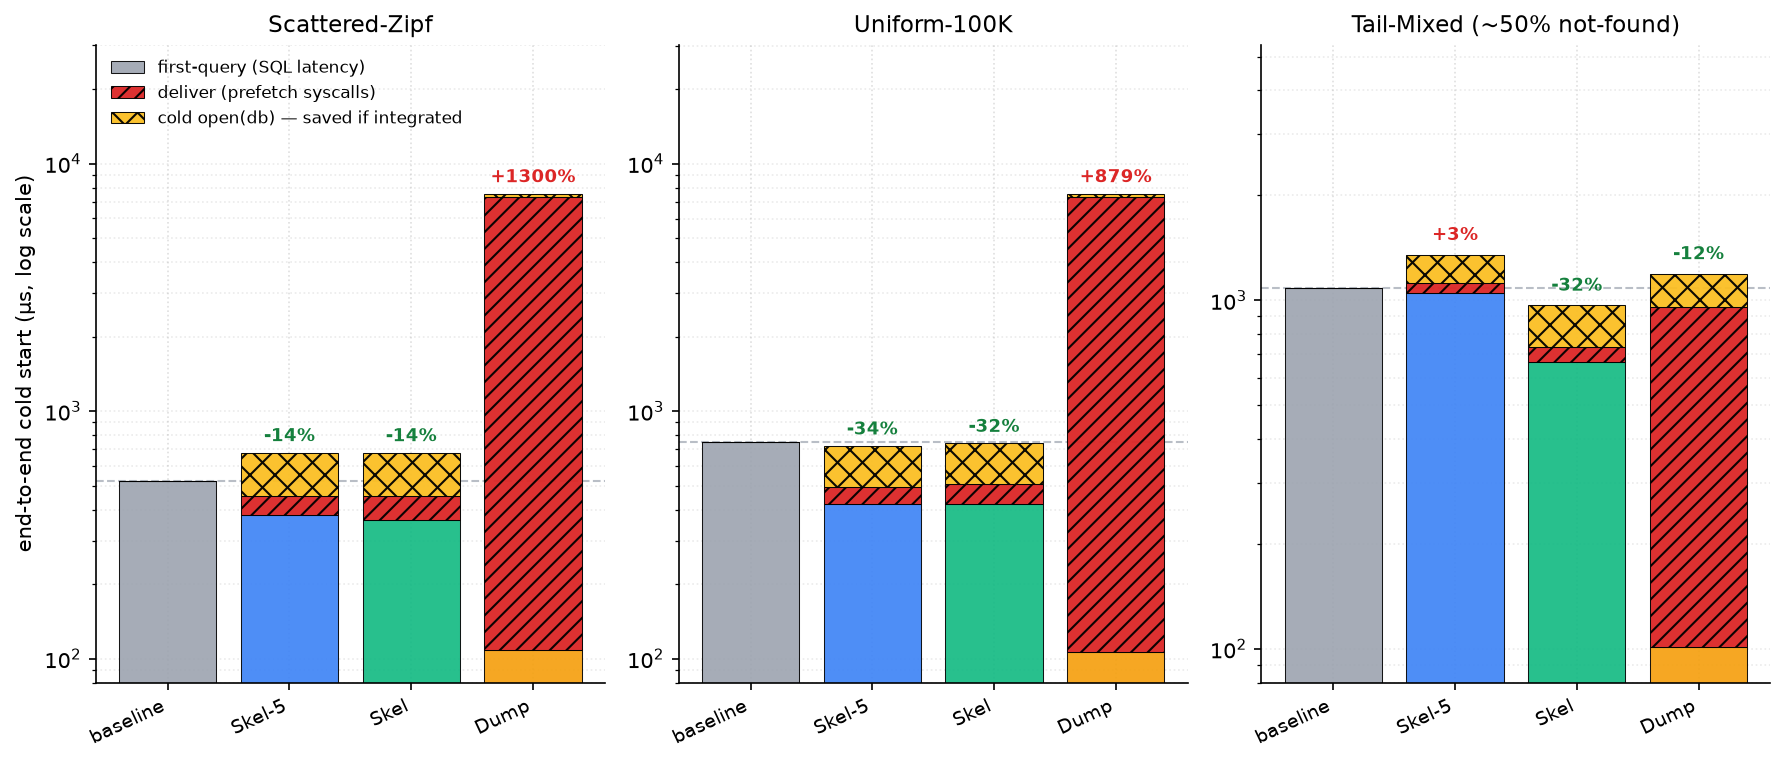
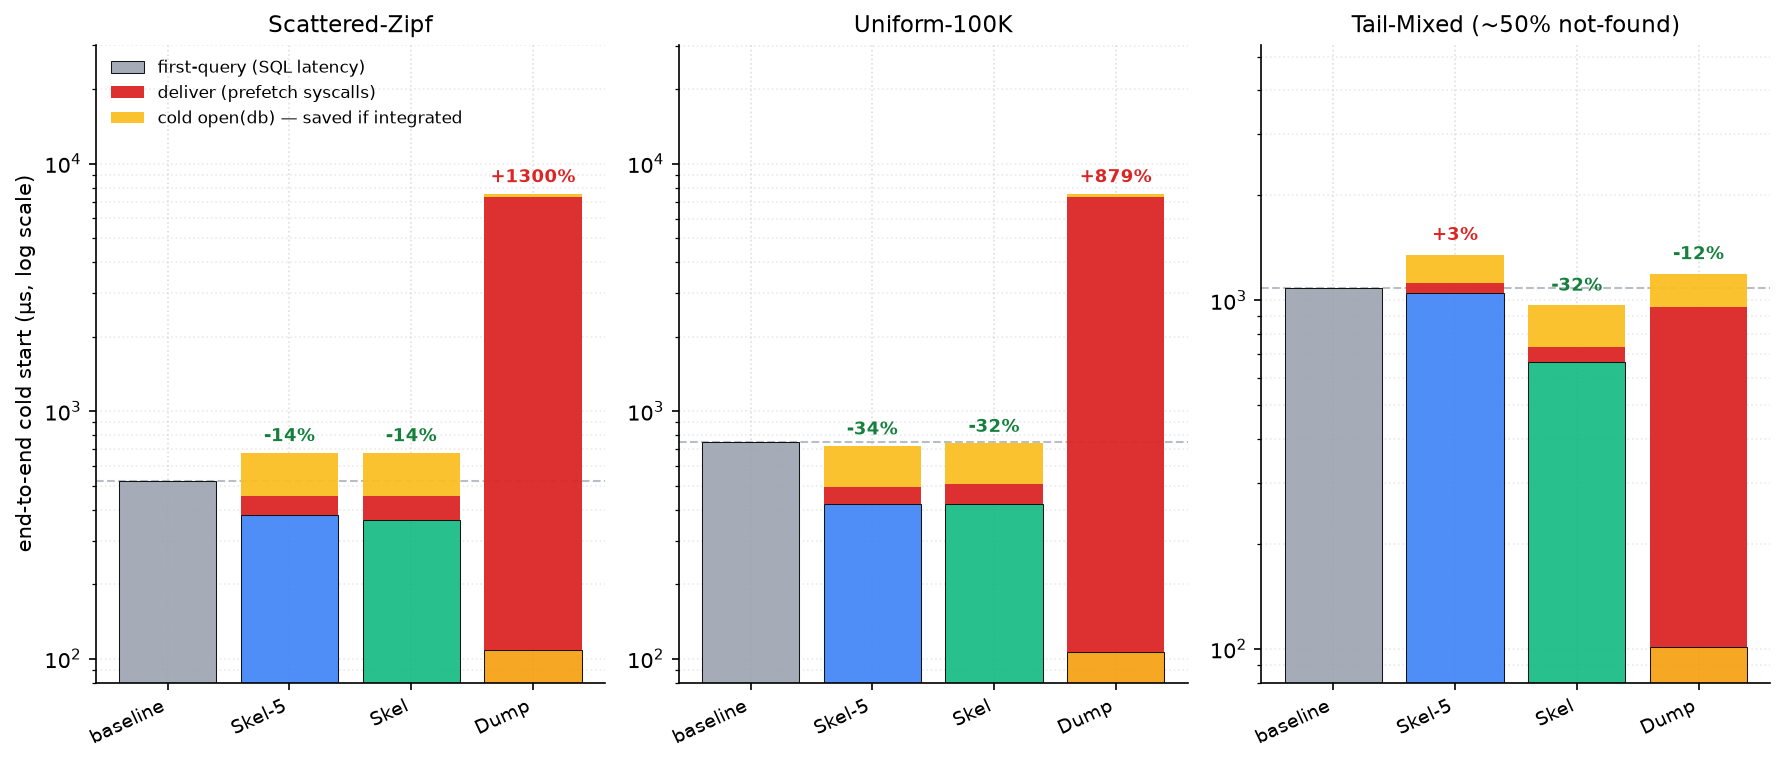
fig14: pure-color deliver/cold-open bars (no black outline); bump paper

diff --git a/figures/14_strategy_endtoend_stacked.py b/figures/14_strategy_endtoend_stacked.py
@@ -70,10 +70,10 @@ for ax, wl in zip(axes, WORKLOADS):
 
     ax.bar(x, fqs, color=colors, alpha=0.9, edgecolor='black', linewidth=0.5,
            label='first-query (SQL latency)')
-    ax.bar(x, dels, bottom=fqs, color='#dc2626', alpha=0.95, edgecolor='black',
-           linewidth=0.5, hatch='///', label='deliver (prefetch syscalls)')
-    ax.bar(x, opens, bottom=warm, color='#fbbf24', alpha=0.95, edgecolor='black',
-           linewidth=0.5, hatch='xx', label='cold open(db) — saved if integrated')
+    ax.bar(x, dels, bottom=fqs, color='#dc2626', alpha=0.95,
+           label='deliver (prefetch syscalls)')
+    ax.bar(x, opens, bottom=warm, color='#fbbf24', alpha=0.95,
+           label='cold open(db) — saved if integrated')
     ax.axhline(baseline, color='#9ca3af', ls='--', lw=1.0, alpha=0.7, zorder=0)
 
     for xi, wv, sv, s in zip(x, warm, standalone, ARMS):
